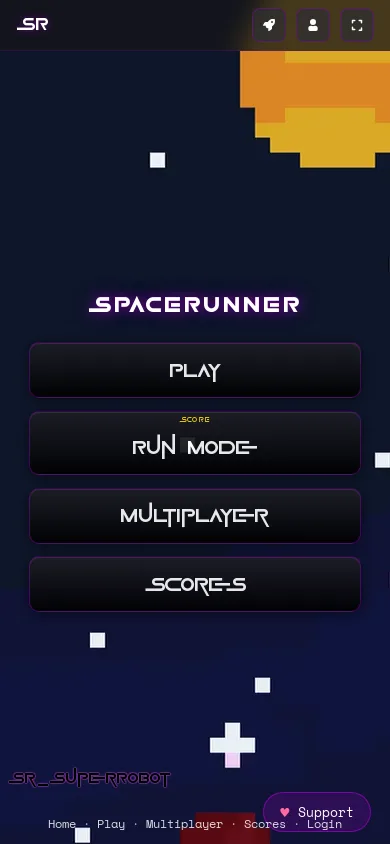
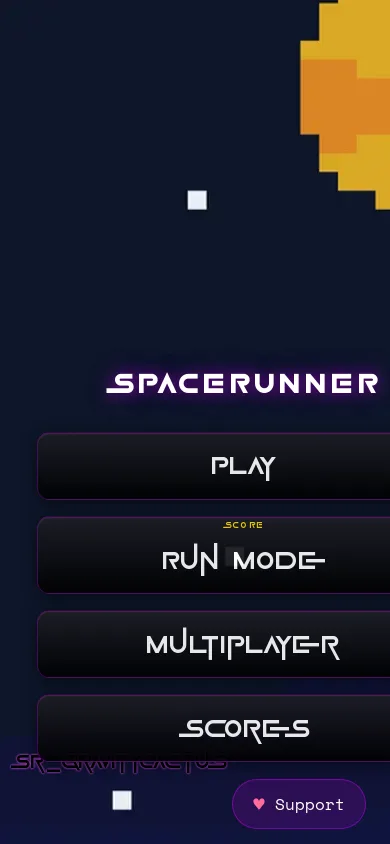
projects: kill pills/stats/versions, rewrite copy, spacerunner menu shots, responsive images

diff --git a/resources/views/livewire/projects/index.blade.php b/resources/views/livewire/projects/index.blade.php
@@ -39,7 +39,7 @@ new class extends Component {
         */
 
         OpenGraph::setTitle('Projekte – Web-Apps, Websites & Games | Websters');
-        OpenGraph::setDescription('Echte Projekte von uns: Preisvergleich, Habit-Tracking, Band-Website, Browser-Game & mehr – alles live und klickbar.');
+        OpenGraph::setDescription('Echte Projekte von uns: Preisvergleich, Habit-Tracking, Band-Website, Browser-Game & mehr zum Anklicken.');
         OpenGraph::setUrl($pageUrl);
         OpenGraph::setSiteName('Websters');
         OpenGraph::setType('website');
@@ -56,7 +56,7 @@ new class extends Component {
         */
 
         TwitterCard::setTitle('Unsere Projekte | Websters');
-        TwitterCard::setDescription('Echte Projekte: Web-Apps, Websites, Games & MVPs – alles live und klickbar.');
+        TwitterCard::setDescription('Echte Projekte: Web-Apps, Websites, Games & MVPs zum Anklicken.');
         TwitterCard::setSite('@WebstersAgency');
 
         /*
@@ -132,53 +132,45 @@ new class extends Component {
         [
             'title' => 'BeBetter',
             'tagline' => 'Gewohnheiten, die bleiben',
-            'badge' => 'Live',
-            'badge_color' => 'bg-success',
-            'kind' => 'PWA · Eigenes Produkt',
+            'kind' => 'PWA',
             'image' => asset('/assets/projects/bebetter.webp'),
             'image_mobile' => asset('/assets/projects/bebetter-mobile.webp'),
             'alt' => 'BeBetter – Habit-Tracking mit Year-Grid und Streak-Statistiken',
             'desc' => 'Gewohnheiten tracken, Tasks verwalten und Streak-Battles gegen Freunde gewinnen – als installierbare App mit Push-Erinnerungen, Foto-Verifizierung und Year-Grid im GitHub-Stil.',
-            'tags' => ['Vue 3', 'Express.js', 'Prisma', 'PostgreSQL', 'Tailwind CSS', 'PWA'],
+            'tags' => ['Vue', 'Express.js', 'Prisma', 'PostgreSQL', 'Tailwind CSS', 'PWA'],
             'link' => 'https://bebetter.websters.at/',
         ],
         [
             'title' => 'lebe-gesund.at',
             'tagline' => 'Ernährung · Energie · Balance',
-            'badge' => 'Live',
-            'badge_color' => 'bg-success',
-            'kind' => 'Website · Kundenprojekt',
+            'kind' => 'Website | Kundenprojekt',
             'image' => asset('/assets/projects/lebe-gesund.webp'),
             'image_mobile' => asset('/assets/projects/lebe-gesund-mobile.webp'),
             'alt' => 'lebe-gesund.at – Website für Ernährungstrainerin Ulrike Ruep',
             'desc' => 'Website für Ernährungstrainerin Ulrike Ruep: Ernährung, RINGANA-Partnerschaft, PranaVita und Biokybernetik – ruhig, klar und modern umgesetzt.',
-            'tags' => ['Vue 3', 'Vite', 'Tailwind CSS', 'GSAP', 'Lenis', 'Nginx'],
+            'tags' => ['Vue', 'Vite', 'Tailwind CSS'],
             'link' => 'https://lebe-gesund.at/',
         ],
         [
             'title' => 'MIRACLE',
             'tagline' => 'Hannah & Sophie · Gitarre & Gesang',
-            'badge' => 'Live',
-            'badge_color' => 'bg-success',
             'kind' => 'Band-Website',
             'image' => asset('/assets/projects/miracle.webp'),
             'image_mobile' => asset('/assets/projects/miracle-mobile.webp'),
             'alt' => 'MIRACLE – Band-Website mit Disco-Kugel, Gigs und Instagram-Reels',
-            'desc' => 'Offizielle Website des Duos Hannah (Gitarre) & Sophie (Gesang): Gigs, Reels und Disco-Kugel in 3D – zweisprachig auf Deutsch und Englisch.',
-            'tags' => ['Vue 3', 'Vite', 'Tailwind CSS', 'GSAP', 'Lenis'],
+            'desc' => 'Offizielle Website des Duos Hannah (Gitarre) & Sophie (Gesang): Gigs, Reels und Disco-Kugel in 3D.',
+            'tags' => ['Vue', 'Vite', 'Tailwind CSS'],
             'link' => 'https://miracle.websters.at/',
         ],
         [
             'title' => 'SpaceRunner',
             'tagline' => 'Solo · Koop · Multiplayer',
-            'badge' => 'Live · Spielbar',
-            'badge_color' => 'bg-success',
             'kind' => 'Browser-Game',
             'image' => asset('/assets/projects/spacerunner.webp'),
             'image_mobile' => asset('/assets/projects/spacerunner-mobile.webp'),
-            'alt' => 'SpaceRunner – Gameplay mit Plattformen, Coins und HUD',
+            'alt' => 'SpaceRunner – Hauptmenü mit Spielmodi',
             'desc' => 'Kostenloser Canvas-Platformer direkt im Browser: Solo, Koop und Multiplayer mit Seeded Runs, globalem Leaderboard und Highscores – ganz ohne Installation.',
-            'tags' => ['JavaScript', 'PHP', 'Node.js', 'Socket.IO', 'MariaDB', 'Nginx'],
+            'tags' => ['JavaScript', 'PHP', 'Node.js', 'Socket.IO', 'MariaDB'],
             'link' => 'https://spacerunner.websters.at/',
         ],
     ];
@@ -219,7 +211,7 @@ new class extends Component {
             :class="{ 'show': show }"
             style="transition-delay:.15s"
         >
-            Echte Projekte,<br class="hidden sm:block" /> live im Netz
+            Was wir so bauen
         </h1>
 
         <!-- Subtext -->
@@ -228,28 +220,8 @@ new class extends Component {
             :class="{ 'show': show }"
             style="transition-delay:.25s"
         >
-            Web-Apps, Websites und Games von uns – alles live, alles klickbar, alles mit echten Screenshots.
+            Web-Apps, Websites und Games – alles zum Anklicken.
         </p>
-
-        <!-- Stats -->
-        <div
-            class="mt-8 flex items-start justify-start gap-8 sm:gap-12 lg:justify-center fade-up"
-            :class="{ 'show': show }"
-            style="transition-delay:.3s"
-        >
-            <div class="flex flex-col items-start lg:items-center">
-                <span class="bg-gradient-to-b from-[#002a42] to-slate-500 bg-clip-text font-poppins text-3xl font-bold text-transparent lg:text-4xl">5×</span>
-                <span class="mt-1 text-xs font-semibold text-slate-500 lg:text-sm">Projekte live</span>
-            </div>
-            <div class="flex flex-col items-start lg:items-center">
-                <span class="bg-gradient-to-b from-[#002a42] to-slate-500 bg-clip-text font-poppins text-3xl font-bold text-transparent lg:text-4xl">1×</span>
-                <span class="mt-1 text-xs font-semibold text-slate-500 lg:text-sm">Prototyp im Archiv</span>
-            </div>
-            <div class="flex flex-col items-start lg:items-center">
-                <span class="bg-gradient-to-b from-[#002a42] to-slate-500 bg-clip-text font-poppins text-3xl font-bold text-transparent lg:text-4xl">100&nbsp;%</span>
-                <span class="mt-1 text-xs font-semibold text-slate-500 lg:text-sm">echte Screenshots</span>
-            </div>
-        </div>
 
         <!-- Featured: PriceMatters -->
         <article
@@ -272,19 +244,9 @@ new class extends Component {
                                 decoding="async"
                             />
                         </picture>
-                        <div class="absolute left-4 top-4 rounded-full text-sm font-semibold text-white px-3 py-1 bg-primary">
-                            Featured
-                        </div>
                     </div>
-
-                    <div class="flex flex-col justify-center p-6 lg:p-10">
-                        <div class="flex flex-wrap items-center gap-x-2 gap-y-1.5">
-                            <div class="font-bold text-brand-dark text-xl lg:text-2xl">PriceMatters</div>
-                            <div class="rounded-full text-sm font-semibold text-white px-2 py-0.5 bg-success">
-                                Live
-                            </div>
-                        </div>
-                        <p class="mt-1 text-sm font-semibold text-slate-500">Ehrlicher Preisvergleich · Eigenes Produkt</p>
+                        <div class="font-bold text-brand-dark text-xl lg:text-2xl">PriceMatters</div>
+                        <p class="mt-1 text-sm font-semibold text-slate-500">Ehrlicher Preisvergleich</p>
 
                         <p class="mt-4 text-sm font-medium text-neutral-500 lg:text-base">
                             Echte Grundpreise in €/kg, €/L und €/Stück für Amazon-Produkte –
@@ -292,10 +254,10 @@ new class extends Component {
                         </p>
 
                         <div class="mt-4 flex flex-wrap gap-2">
-                            <span class="rounded-full bg-slate-100 px-2.5 py-0.5 text-xs font-semibold text-slate-600">Nuxt 3</span>
+                            <span class="rounded-full bg-slate-100 px-2.5 py-0.5 text-xs font-semibold text-slate-600">Nuxt</span>
                             <span class="rounded-full bg-slate-100 px-2.5 py-0.5 text-xs font-semibold text-slate-600">FastAPI</span>
-                            <span class="rounded-full bg-slate-100 px-2.5 py-0.5 text-xs font-semibold text-slate-600">PostgreSQL 16</span>
-                            <span class="rounded-full bg-slate-100 px-2.5 py-0.5 text-xs font-semibold text-slate-600">Redis 7</span>
+                            <span class="rounded-full bg-slate-100 px-2.5 py-0.5 text-xs font-semibold text-slate-600">PostgreSQL</span>
+                            <span class="rounded-full bg-slate-100 px-2.5 py-0.5 text-xs font-semibold text-slate-600">Redis</span>
                         </div>
 
                         <div class="mt-6">
@@ -341,13 +303,9 @@ new class extends Component {
 
                         <div class="mt-4 flex flex-wrap items-center gap-x-2 gap-y-1.5 lg:mt-6">
                             <div class="font-bold text-brand-dark text-lg">{{ $card['title'] }}</div>
-
-                            <div class="rounded-full text-sm font-semibold text-white px-2 py-0.5 {{ $card['badge_color'] }}">
-                                {{ $card['badge'] }}
-                            </div>
                         </div>
 
-                        <p class="mt-1 text-sm font-semibold text-slate-500">{{ $card['tagline'] }} · {{ $card['kind'] }}</p>
+                        <p class="mt-1 text-sm font-semibold text-slate-500">{{ $card['tagline'] }} | {{ $card['kind'] }}</p>
 
                         <p class="mt-2 text-sm font-medium text-neutral-500">
                             {{ $card['desc'] }}
@@ -454,8 +412,7 @@ new class extends Component {
                     Dein Projekt als Nächstes?
                 </h2>
                 <p class="text-sm font-medium text-slate-600 leading-normal lg:text-base mt-3 w-full lg:w-2/5">
-                    Website, Web-App oder doch ein Game? Erzähl uns von deiner Idee –
-                    wir melden uns innerhalb von 24 Stunden.
+                    Website, Web-App oder doch ein Game? Erzähl uns von deiner Idee.
                 </p>
                 <a
                     href="{{ route('contact') }}"
